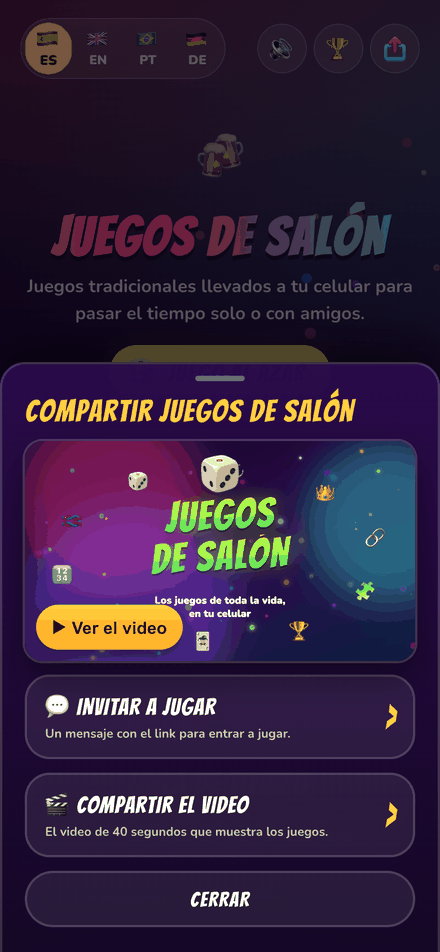
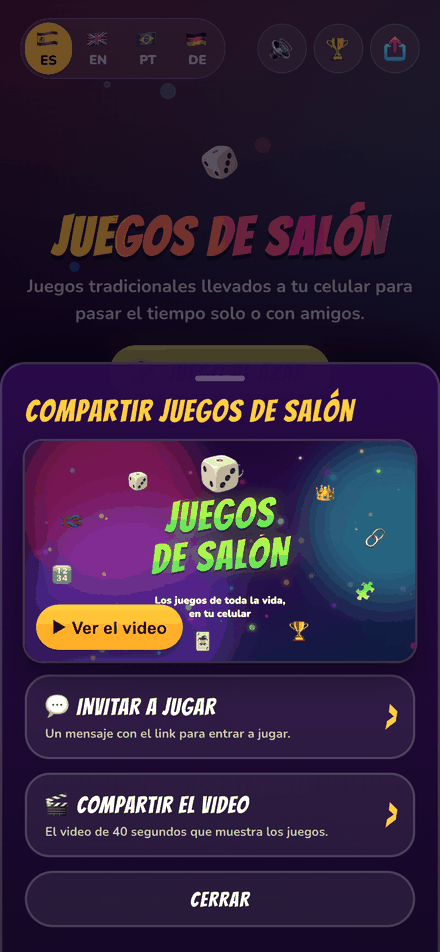
Documentación de D-254: el guion compartir-portada.mjs en tools/e2e/README.md, compartir-portada.js en el README y las capturas de la portada rehechas

diff --git a/README.md b/README.md
@@ -737,7 +737,7 @@ public/                     The site (juegosdesalon.cl/): the only folder that g
   today/                      One a Day: today's game, your streak, a calendar and how you do in each game (D-230)
   panel/                      Private owner dashboard: now, The Cup, games, traffic, audience and health, with a page per cup, game and room (Google sign-in; see docs/PANEL.md)
   assets/css/                 Shared styles: base.css (party theme), linea.css (timeline), teclado.css (keypad), ranking.css (leaderboards)
-  assets/js/                  Shared modules: games.js (game registry), i18n.js (ES/EN/PT/DE), labs-idioma.js (a new language in the lab, D-191), ui.js, sound.js, compartir.js (everything shared, D-165), compartir-portada.js (the home-page share sheet, with the promo video, D-253), handoff.js, chat.js, session.js, arrastre.js (drag and drop), teclado.js, azar.js, dado3d.js and llegada.js (Random game: the die, which stays on screen until the game is drawn, D-237), frases.js, records.js + jugador.js + ranking.js (players and leaderboards, D-212; jugador-firebase.js and jugador-local.js are their stores), instalable.js (registers the service worker, D-221), instalar.js (the home-page bubble that invites to add the app to the home screen, D-232), favoritos.js (the home-page favorites, kept in the browser, D-238), push.js + vapid.js (phone notifications: subscribing, D-223), uno-al-dia.js + uno-al-dia-ui.js + uno-al-dia-red.js + uno-al-dia-avisos.js (One a Day: a daily game, the same for everyone, with a streak, freezes, leaderboards, invitations and reminders; D-230), and vigia.js, a classic script (not a module) that every page loads first to report load failures, errors and start-up time to the dashboard (D-251)
+  assets/js/                  Shared modules: games.js (game registry), i18n.js (ES/EN/PT/DE), labs-idioma.js (a new language in the lab, D-191), ui.js, sound.js, compartir.js (everything shared, D-165), compartir-portada.js (the home-page share sheet, with the promo video, in the languages that have one, D-253, D-254), handoff.js, chat.js, session.js, arrastre.js (drag and drop), teclado.js, azar.js, dado3d.js and llegada.js (Random game: the die, which stays on screen until the game is drawn, D-237), frases.js, records.js + jugador.js + ranking.js (players and leaderboards, D-212; jugador-firebase.js and jugador-local.js are their stores), instalable.js (registers the service worker, D-221), instalar.js (the home-page bubble that invites to add the app to the home screen, D-232), favoritos.js (the home-page favorites, kept in the browser, D-238), push.js + vapid.js (phone notifications: subscribing, D-223), uno-al-dia.js + uno-al-dia-ui.js + uno-al-dia-red.js + uno-al-dia-avisos.js (One a Day: a daily game, the same for everyone, with a streak, freezes, leaderboards, invitations and reminders; D-230), and vigia.js, a classic script (not a module) that every page loads first to report load failures, errors and start-up time to the dashboard (D-251)
   assets/js/transport/        Transports: local (same phone), firebase (room) and stats (usage signals)
   assets/og/                  The 1200×630 images shown when a link is shared
   manifest.webmanifest        PWA manifest (installable on the home screen), one per language (manifest.en.webmanifest …) so the app is named in the player's language (D-222); its PNG icons are in assets/icons/

diff --git a/tools/e2e/README.md b/tools/e2e/README.md
@@ -117,7 +117,7 @@ node tools/e2e/contacto.mjs cuarto-rey --salida /tmp/contacto
 | `uno-al-dia-grupo.mjs` | Uno al día con El Ahorcado, Batalla Naval y Dudo (D-230): con el reloj fijo en un día en que toca cada uno, que `?hoy` abra directo el modo para uno, la línea de la intro, que la palabra, la flota del celular y los dados salgan de la semilla del día, el puntaje de su fórmula, la tarjeta arriba de los botones del juego, sin revancha (#226), el segundo intento como práctica, un link de otro juego que se va al de hoy, `/today/` y el dado que nombra a los de grupo |
 | `compartir-sala.mjs` | Botón de compartir: diálogo nativo si existe, copiar si no |
 | `favoritos.mjs` | Los favoritos de la portada (D-238, D-241): la ⭐ se toca con el dedo y marca sin abrir el juego, la ficha ⭐ Favoritos sale con el primero y deja ver solo esos (y va en la URL), desmarcar ahí no saca la tarjeta de la vista, se recuerdan al recargar, `?type=favorites` sin favoritos muestra todos, y dónde va ⭐ Favoritos (D-241): primera en la fila de tipos a 390 px y en un computador, y a 320 px donde quepa (en su línea si no), siempre con los tipos en una fila y sin salirse, en los cuatro idiomas |
-| `compartir-portada.mjs` | El botón de compartir de la portada (D-226, D-242), en los cuatro idiomas: la tarjeta social del idioma como imagen, el texto con su cabecera y el link a la portada de ese idioma; en un computador, solo el texto copiado y nada descargado |
+| `compartir-portada.mjs` | El botón de compartir de la portada (D-226, D-242), en los cuatro idiomas: en español abre la hoja con el video, sin cargarlo hasta que lo tocan, y "Compartir el video" manda el link de YouTube (D-253); en los demás comparte directo, sin hoja (D-254). En todos, la tarjeta social del idioma como imagen, el texto con su cabecera y el link a la portada de ese idioma; en un computador, solo el texto copiado y nada descargado |
 | `enlace-invitacion.mjs` | Quien llega por un enlace solo puede unirse a esa sala, en los cuatro juegos con sala |
 | `sala-error.mjs` | Sin llegar a Firebase: el mensaje de cada juego con sala, Toque y Fama en cada idioma y los demás repartidos entre ellos |
 | `idioma-por-url.mjs` | El idioma que viene en el link, en cada idioma: `?lang=`, las puertas (`/en/`, `/pt/`, `/de/`), el puente `/labs/de/` y las invitaciones a sala y a copa |
